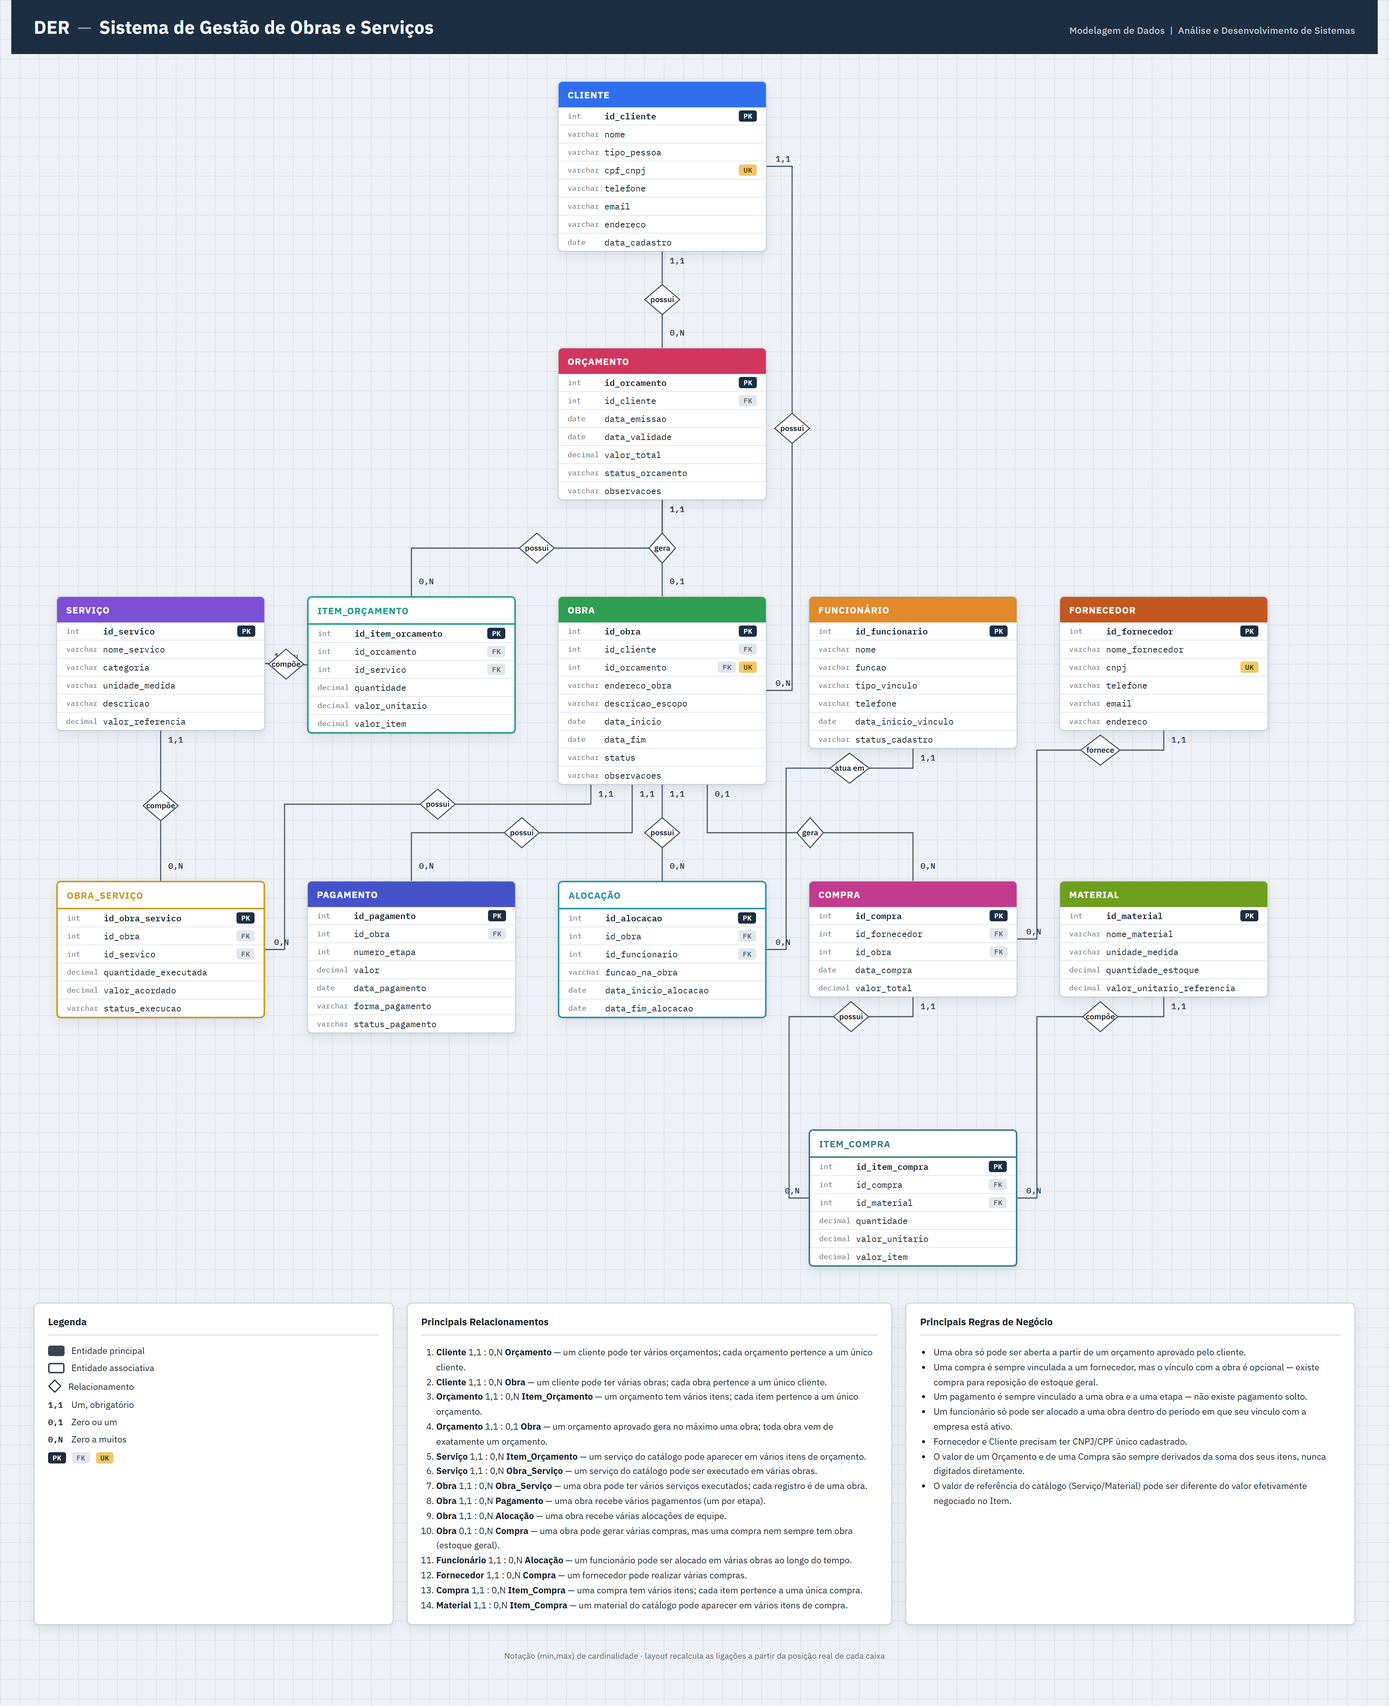
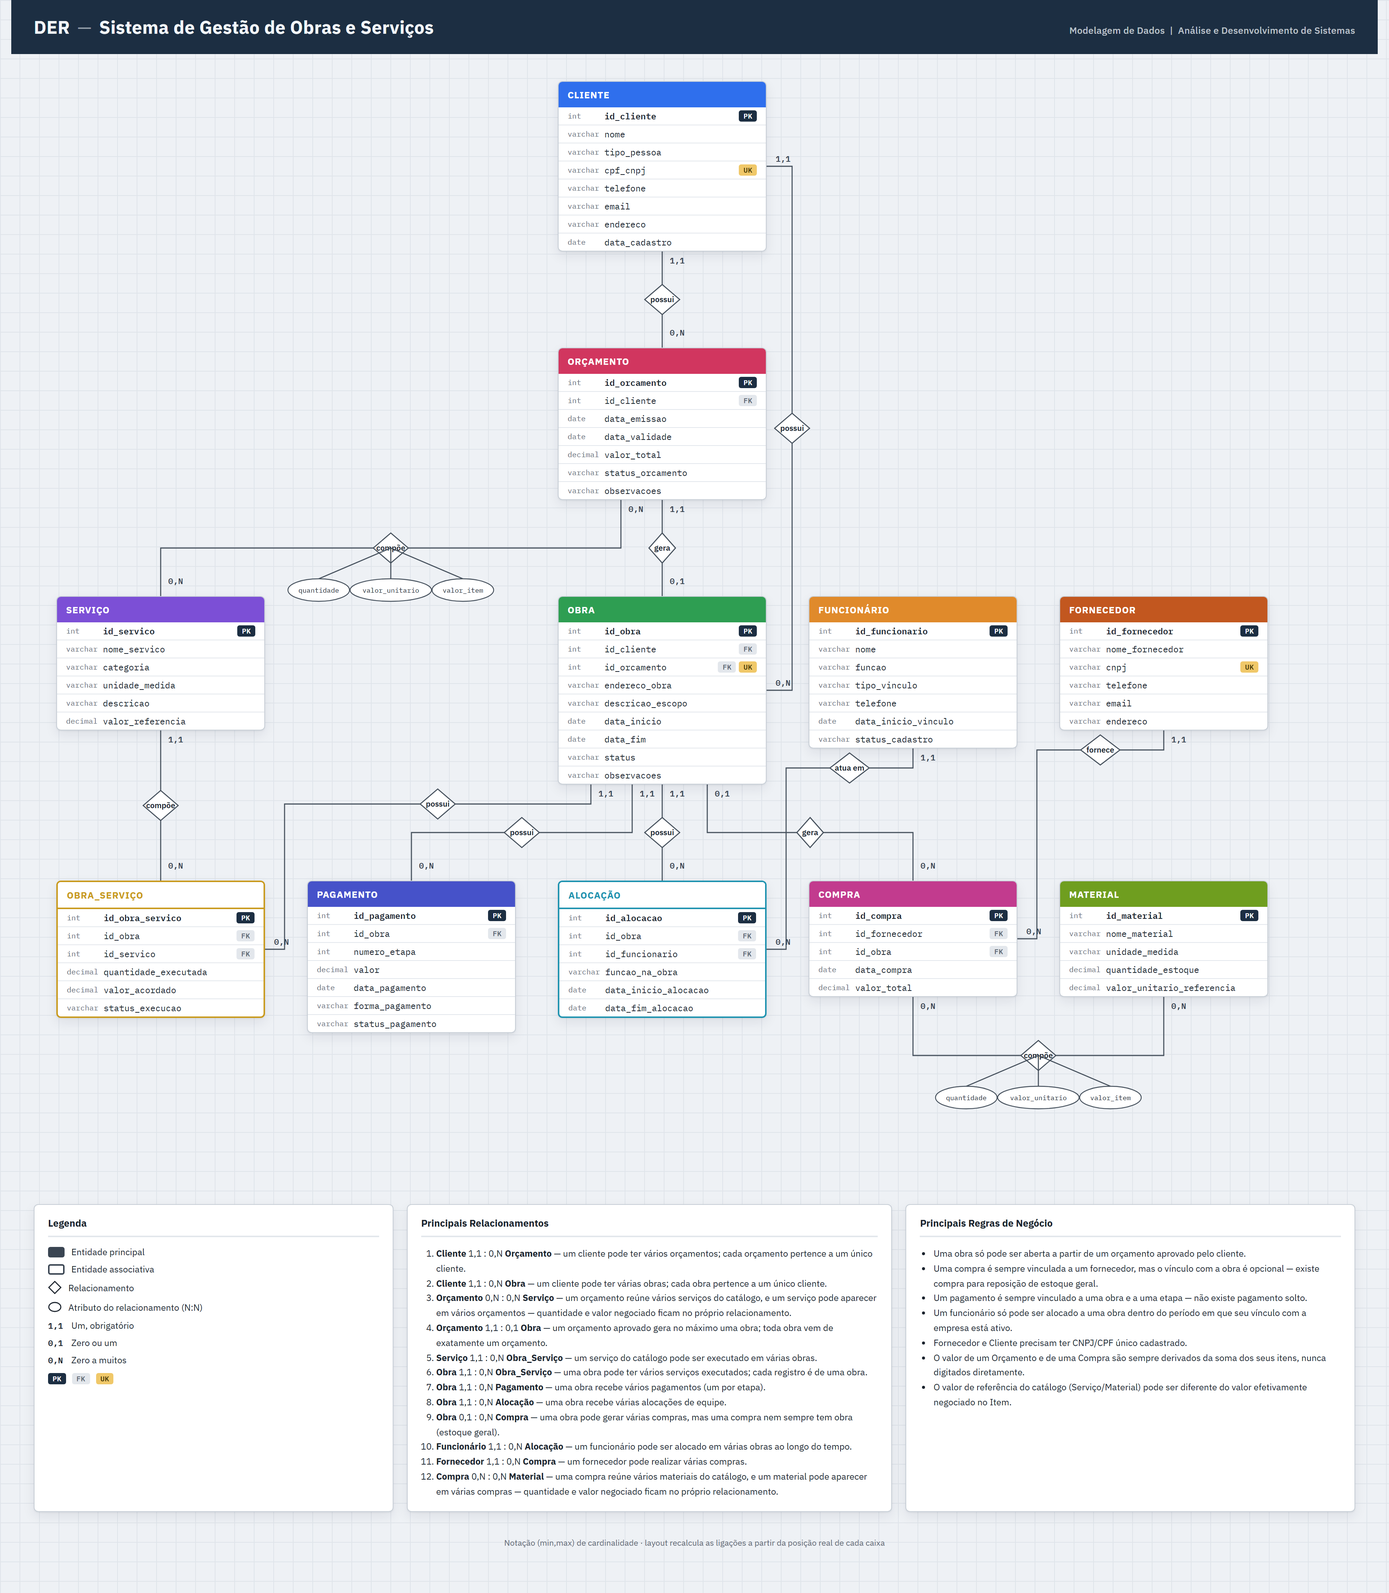
DER (revisao 3): remove Item_Orcamento/Item_Compra, corrige losango duplo
Item_Orcamento e Item_Compra eram entidade associativa presa por DOIS
losangos cada (um "possui" com o orcamento/compra, outro "compoe" com
servico/material) -- leitura invalida de Chen: um relacionamento se liga
a entidades, nao a outro relacionamento.

Corrigido: quantidade/valor_unitario/valor_item viraram atributo do
PROPRIO relacionamento N:N (Orcamento-Servico e Compra-Material), um
losango so por relacionamento, com elipse de atributo presa nele. Removidas
as duas entidades e suas chaves estrangeiras. Dicionario de dados, lista de
relacionamentos e Justificativa Tecnica atualizados. Quadro de uso de IA
ganhou as rodadas 3 (conversao de notacao, que nunca tinha sido registrada)
e 4 (esta correcao).

diff --git a/README.md b/README.md
@@ -531,15 +531,12 @@ Especificações:
 | status_orcamento | Atributo | Pendente, aprovado ou recusado | Obra só pode ser aberta se aprovado |
 | observacoes | Atributo | Condições ou observações da proposta | Opcional |
 
-**Entidade associativa: Item_Orçamento**
+**Relacionamento N:N com atributos: Orçamento _compõe_ Serviço**
 
-*Resolve o relacionamento N:N entre Orçamento e Serviço, permitindo detalhar quantidade e valor por serviço orçado.*
+*Não existe como tabela/entidade própria — quantidade e valor por serviço orçado são atributos do PRÓPRIO relacionamento entre Orçamento e Serviço (notação de Chen), não uma entidade associativa separada. Na implementação física isso ainda vira uma tabela de junção (orcamento_servico), mas conceitualmente no DER é um relacionamento, não uma entidade — diferença que a primeira versão deste diagrama errava.*
 
-| Atributo | Tipo | Descrição | Regra de negócio associada |
+| Atributo do relacionamento | Tipo | Descrição | Regra de negócio associada |
 |----------|------|-----------|------------------------------|
-| id_item_orcamento | PK | Identificador único do item | Obrigatório |
-| id_orcamento | FK | Orçamento ao qual o item pertence | Obrigatório |
-| id_servico | FK | Serviço orçado | Obrigatório |
 | quantidade | Atributo | Quantidade do serviço orçada | Obrigatório, maior que zero |
 | valor_unitario | Atributo | Valor unitário aplicado no orçamento | Obrigatório |
 | valor_item | Atributo | Valor total do item (quantidade × valor_unitario) | Calculado; compõe o valor_total do orçamento |
@@ -613,15 +610,12 @@ Especificações:
 | data_compra | Atributo | Data em que a compra foi realizada | Obrigatório |
 | valor_total | Atributo | Valor total da compra | Calculado a partir dos itens da compra |
 
-**Entidade associativa: Item_Compra**
+**Relacionamento N:N com atributos: Compra _compõe_ Material**
 
-*Resolve o relacionamento N:N entre Compra e Material, permitindo que uma mesma compra traga vários materiais diferentes.*
+*Mesmo caso de Orçamento-Serviço acima: quantidade e valor pago por material comprado são atributos do relacionamento entre Compra e Material, não uma entidade associativa própria.*
 
-| Atributo | Tipo | Descrição | Regra de negócio associada |
+| Atributo do relacionamento | Tipo | Descrição | Regra de negócio associada |
 |----------|------|-----------|------------------------------|
-| id_item_compra | PK | Identificador único do item | Obrigatório |
-| id_compra | FK | Compra à qual o item pertence | Obrigatório |
-| id_material | FK | Material adquirido | Obrigatório |
 | quantidade | Atributo | Quantidade comprada daquele material | Obrigatório, maior que zero |
 | valor_unitario | Atributo | Valor unitário pago naquela compra | Obrigatório |
 | valor_item | Atributo | Valor total do item (quantidade × valor_unitario) | Calculado; compõe o valor_total da compra |
@@ -632,31 +626,33 @@ Especificações:
 
 ### Modelagem Conceitual (Entidades, Atributos, Relacionamentos)
 
-**Entidades reconhecidas:** Cliente, Orçamento, Item de Orçamento, Serviço, Obra, Obra_Serviço, Funcionário, Alocação, Fornecedor, Compra, Item de Compra, Material, Pagamento.
+**Entidades reconhecidas:** Cliente, Orçamento, Serviço, Obra, Obra_Serviço, Funcionário, Alocação, Fornecedor, Compra, Material, Pagamento.
+
+*Item de Orçamento e Item de Compra saíram da lista de entidades (revisão 3): quantidade e valor por serviço/material negociado são atributos do relacionamento N:N Orçamento-Serviço e Compra-Material, não entidades associativas próprias — ver "Justificativa Técnica" abaixo.*
 
 - **Cliente** é quem solicita orçamento e, eventualmente, tem uma obra executada — existe isolado porque pode ter mais de um orçamento/obra ao longo do tempo (histórico).
-- **Orçamento** e **Item de Orçamento** são separados porque um orçamento tem vários serviços orçados, cada um com sua própria quantidade e valor negociado — não caberia num único registro.
+- **Orçamento** relaciona-se N:N com **Serviço**: um orçamento tem vários serviços orçados, cada um com sua própria quantidade e valor negociado — atributos que ficam no próprio relacionamento, não numa entidade separada.
 - **Serviço** é um catálogo reutilizável: o mesmo serviço (ex.: "pintura interna") aparece em vários orçamentos diferentes, com valor de referência único, mas negociado item a item.
 - **Obra** nasce de um orçamento aprovado e é o eixo em torno do qual giram equipe, compras e pagamentos daquele projeto específico.
-- **Obra_Serviço** existe porque o que foi orçado (Item de Orçamento) nem sempre é executado exatamente igual — a obra pode ajustar quantidade e status de execução por serviço.
+- **Obra_Serviço** existe porque o que foi orçado nem sempre é executado exatamente igual — a obra pode ajustar quantidade e status de execução por serviço.
 - **Funcionário** e **Alocação** são separados pelo mesmo motivo de Cliente/Obra: um funcionário atua em várias obras ao longo do tempo, cada alocação com sua função e período específicos naquela obra.
-- **Fornecedor**, **Compra**, **Item de Compra** e **Material** seguem a mesma lógica do bloco de orçamento: Material é catálogo reutilizável, Compra é o pedido feito a um Fornecedor para uma Obra, Item de Compra detalha quantidade/valor de cada material naquela compra.
+- **Fornecedor**, **Compra** e **Material** seguem a mesma lógica do bloco de orçamento: Material é catálogo reutilizável, Compra é o pedido feito a um Fornecedor (para uma Obra ou para estoque geral), e quantidade/valor de cada material naquela compra fica no relacionamento Compra-Material.
 - **Pagamento** é separado da Obra porque uma obra é paga em várias etapas, cada uma com sua própria data, valor e status.
 
 **Relacionamentos pertinentes:**
 
 - Um Cliente possui vários Orçamentos e várias Obras; um Orçamento/Obra pertence a um único Cliente.
-- Um Orçamento possui vários Itens de Orçamento; cada Item de Orçamento refere-se a um único Serviço do catálogo.
+- Um Orçamento reúne vários Serviços do catálogo (N:N), com quantidade e valor negociado no próprio relacionamento; um Serviço pode aparecer em vários orçamentos.
 - Um Orçamento aprovado origina, no máximo, uma Obra (nem todo Orçamento vira Obra — só o que for aprovado); toda Obra tem exatamente um Orçamento de origem.
 - Uma Obra executa vários Serviços (via Obra_Serviço); um Serviço pode estar em várias obras.
 - Uma Obra recebe várias Alocações; cada Alocação vincula um único Funcionário a uma única Obra.
 - Uma Obra pode gerar várias Compras, mas uma Compra nem sempre está ligada a uma Obra — compra para reposição de estoque geral não tem obra de destino; toda Compra é feita a um único Fornecedor.
-- Uma Compra possui vários Itens de Compra; cada Item de Compra refere-se a um único Material do catálogo.
+- Uma Compra reúne vários Materiais do catálogo (N:N), com quantidade e valor pago no próprio relacionamento; um Material pode aparecer em várias compras.
 - Uma Obra recebe vários Pagamentos (um por etapa).
 
 **Restrições e políticas organizacionais aplicadas ao modelo:**
 - Uma Obra só existe vinculada a um Orçamento aprovado — não há Obra sem Orçamento de origem.
-- O valor total de um Orçamento e de uma Compra são sempre derivados da soma dos seus itens, nunca digitados diretamente — o que reforça Item_Orçamento e Item_Compra como o nível de detalhe real do dado.
+- O valor total de um Orçamento e de uma Compra são sempre derivados da soma dos itens do relacionamento (quantidade × valor_unitario de cada Serviço/Material), nunca digitados diretamente.
 
 ---
 
@@ -664,17 +660,19 @@ Especificações:
 
 ![DER - JG Construções](DER.png)
 
-13 entidades, com as cardinalidades de cada relacionamento: Cliente 1:N Orçamento; Cliente 1:N Obra; Orçamento 1:N Item_Orçamento; Orçamento 1:0,1 Obra (todo Orçamento aprovado gera no máximo uma Obra; toda Obra vem de exatamente um Orçamento); Serviço 1:N Item_Orçamento e 1:N Obra_Serviço; Obra 1:N Obra_Serviço, 1:N Alocação, 1:N Pagamento; Obra 0,1:N Compra (compra pode não ter obra — estoque geral); Funcionário 1:N Alocação; Fornecedor 1:N Compra; Compra 1:N Item_Compra; Material 1:N Item_Compra.
+11 entidades, com as cardinalidades de cada relacionamento: Cliente 1:N Orçamento; Cliente 1:N Obra; Orçamento N:N Serviço (com quantidade/valor no relacionamento); Orçamento 1:0,1 Obra (todo Orçamento aprovado gera no máximo uma Obra; toda Obra vem de exatamente um Orçamento); Serviço 1:N Obra_Serviço; Obra 1:N Obra_Serviço, 1:N Alocação, 1:N Pagamento; Obra 0,1:N Compra (compra pode não ter obra — estoque geral); Funcionário 1:N Alocação; Fornecedor 1:N Compra; Compra N:N Material (com quantidade/valor no relacionamento).
 
-*(Revisão 2: durante a conferência do modelo, percebemos duas inconsistências na primeira versão do diagrama — a relação Orçamento→Obra estava desenhada como 1:N, quando pela própria regra de negócio uma Obra só pode vir de UM Orçamento aprovado, e havia uma ligação direta entre Compra e Material que duplicava o que o Item_Compra já resolve. As duas foram corrigidas nesta versão do `DER.png`.)*
+*(Revisão 2: durante a conferência do modelo, percebemos duas inconsistências na primeira versão do diagrama — a relação Orçamento→Obra estava desenhada como 1:N, quando pela própria regra de negócio uma Obra só pode vir de UM Orçamento aprovado, e havia uma ligação direta entre Compra e Material que duplicava o que o Item_Compra já resolvia. As duas foram corrigidas.)*
+
+*(Revisão 3: Item_Orçamento e Item_Compra saíram como entidades associativas próprias. Notação de Chen correta pra um N:N com atributo (quantidade, valor_unitario, valor_item) é o atributo pendurado no PRÓPRIO losango do relacionamento, não uma entidade nova com dois losangos grudados nela — o erro anterior tinha, na prática, dois relacionamentos saindo da mesma caixa, o que não é uma leitura válida do diagrama. A tabela física (junção com essas colunas) continua existindo do mesmo jeito; o que mudou foi só a representação conceitual.)*
 
 ---
 
 ### Justificativa Técnica
 
-A decisão central do modelo foi **separar o que foi orçado (Item_Orçamento) do que foi de fato executado (Obra_Serviço)**, em vez de assumir que a obra sempre executa exatamente o que constava no orçamento. Na prática de uma obra, quantidade e escopo de um serviço podem mudar no meio do caminho (mais metros quadrados do que o previsto, um serviço cancelado). Um único registro que misturasse "orçado" e "executado" perderia essa diferença — e é justamente essa diferença que a empresa precisa para saber se está ganhando ou perdendo dinheiro numa obra em relação ao que foi vendido ao cliente.
+A decisão central do modelo foi **separar o que foi orçado (relacionamento Orçamento-Serviço) do que foi de fato executado (Obra_Serviço)**, em vez de assumir que a obra sempre executa exatamente o que constava no orçamento. Na prática de uma obra, quantidade e escopo de um serviço podem mudar no meio do caminho (mais metros quadrados do que o previsto, um serviço cancelado). Um único registro que misturasse "orçado" e "executado" perderia essa diferença — e é justamente essa diferença que a empresa precisa para saber se está ganhando ou perdendo dinheiro numa obra em relação ao que foi vendido ao cliente.
 
-A segunda decisão foi **tratar Serviço e Material como catálogos**, separados de Item_Orçamento/Item_Compra. Isso evita redigitar "Pintura interna — R$ 35/m²" a cada novo orçamento, mas também permite que o valor efetivamente cobrado (no Item_Orçamento) seja diferente do valor de referência do catálogo — refletindo a regra de negócio real de que todo orçamento é, até certo ponto, negociado com o cliente.
+A segunda decisão foi **tratar Serviço e Material como catálogos**, com valor de referência próprio, independente do que é negociado em cada orçamento/compra. Isso evita redigitar "Pintura interna — R$ 35/m²" a cada novo orçamento, mas também permite que o valor efetivamente cobrado (atributo do relacionamento Orçamento-Serviço) seja diferente do valor de referência do catálogo — refletindo a regra de negócio real de que todo orçamento é, até certo ponto, negociado com o cliente. Quantidade e valor por serviço/material negociado não viraram uma entidade associativa própria (Item_Orçamento/Item_Compra, como numa versão anterior deste DER) porque são atributos do PRÓPRIO relacionamento N:N — colocá-los numa entidade à parte, ligada por dois losangos, não é uma leitura válida de um diagrama de Chen (um relacionamento não se liga a outro relacionamento; ele se liga a entidades).
 
 Por fim, **Pagamento foi modelado por etapa, vinculado à Obra**, e não como um valor único fechado no momento da venda — porque obra de reforma tipicamente não é paga de uma vez só; separar por etapa é o que permite ao sistema responder "quanto já foi pago dessa obra" e "quanto ainda falta receber" a qualquer momento, sem depender de conferência manual.
 
@@ -706,6 +704,32 @@ Por fim, **Pagamento foi modelado por etapa, vinculado à Obra**, e não como um
 | **Trechos rejeitados ou corrigidos** | A sugestão inicial de remover o campo id_cliente de Obra foi revista depois de cruzar com o dicionário de dados já escrito pelo grupo, que tratava esse campo como obrigatório de propósito — o grupo optou por manter e simplesmente não reintroduzir esse "erro" como correção. |
 | **Justificativa da escolha final** | Optamos por manter as correções de cardinalidade (Orçamento-Obra e Compra-Material) porque essas sim contrariavam a regra de negócio escrita pelo próprio grupo, sem ambiguidade. A conclusão e as referências foram revisadas por nós antes de manter, ajustando trechos que pareciam genéricos demais para refletir o que realmente aconteceu no nosso processo. |
 | **Reflexão crítica** | Ficou claro que a IA lendo só a imagem do diagrama teria "corrigido" um campo que na verdade era intencional — só cruzando com o texto que o próprio grupo escreveu foi possível perceber isso. Reforça que revisão de IA sobre modelagem de dados precisa sempre ser cruzada com as regras de negócio documentadas, não só com o desenho. |
+
+**Terceira rodada — conversão de notação (Crow's Foot para Chen/MER brasileiro)**
+
+| Item | O que registrar |
+|------|------------------|
+| **Ferramenta e etapa** | Claude (Anthropic), usado pra redesenhar o DER trocando a notação de "pé de galinha" (Crow's Foot) pela notação de Chen usada no material da disciplina — entidades em caixa, relacionamento em losango com verbo, cardinalidade numérica (min,max) junto de cada ponta. |
+| **Motivação** | O grupo pediu a troca de notação pra bater com o que foi ensinado em aula. |
+| **Prompt(s) utilizados** | Pedimos pra converter o diagrama existente pra notação de Chen/MER brasileiro, mantendo as entidades, atributos e cardinalidades já revisadas na segunda rodada. |
+| **Resposta recebida** | Diagrama redesenhado do zero (SVG gerado por script) com caixas coloridas por entidade, losango de relacionamento com verbo e cardinalidade (min,max) nas duas pontas. |
+| **Fontes consultadas e verificadas** | O próprio DER já revisado na segunda rodada — a troca foi só de notação visual, sem mudar entidade/atributo/cardinalidade nenhuma. |
+| **Trechos rejeitados ou corrigidos** | Nenhum nesta rodada. |
+| **Justificativa da escolha final** | Notação exigida pela disciplina. |
+| **Reflexão crítica** | Essa rodada não mexeu no CONTEÚDO do modelo, só na representação — mas foi justamente nela que entrou, sem o grupo perceber na hora, o erro que a quarta rodada corrigiu abaixo (duas entidades associativas ligadas por dois losangos cada). Mudar de notação é um bom momento pra reintroduzir erro de modelagem sem querer, porque a atenção vai toda pro desenho, não pra estrutura. |
+
+**Quarta rodada — remoção de Item_Orçamento e Item_Compra como entidades**
+
+| Item | O que registrar |
+|------|------------------|
+| **Ferramenta e etapa** | Claude (Anthropic), usado pra corrigir um erro estrutural apontado pelo grupo: Item_Orçamento e Item_Compra apareciam como entidade associativa própria, cada uma ligada por DOIS losangos (um pra cada lado do N:N que ela resolvia) — leitura inválida de um diagrama de Chen, onde um relacionamento se liga a entidades, não a outro relacionamento. |
+| **Motivação** | O grupo identificou o problema sozinho ("não pode ter dois losangos ligados neles mesmo") e pediu a correção, incluindo remover as chaves estrangeiras das entidades removidas. |
+| **Prompt(s) utilizados** | Pedimos pra remover Item de Compra, a chave estrangeira associada, Item de Orçamento, e os losangos duplicados, e "fazer direito". |
+| **Resposta recebida** | Item_Orçamento e Item_Compra saíram como entidade; quantidade/valor_unitario/valor_item viraram atributos pendurados no PRÓPRIO relacionamento N:N (Orçamento-Serviço e Compra-Material), um losango só por relacionamento, notação de Chen correta pra atributo-de-relacionamento (elipse presa ao losango). Dicionário de dados, lista de relacionamentos e texto de justificativa técnica atualizados pra não citar mais as duas entidades como tabela própria. |
+| **Fontes consultadas e verificadas** | O próprio DER e o texto de "Justificativa Técnica" já escritos neste README, pra manter coerentes a razão de existir de Serviço/Material como catálogo (que continua válida) sem depender mais da entidade associativa removida. |
+| **Trechos rejeitados ou corrigidos** | Nenhum — a correção pedida pelo grupo estava tecnicamente certa (é, de fato, um erro clássico de notação de Chen confundir "entidade associativa" com "atributo de relacionamento"). |
+| **Justificativa da escolha final** | Aceita integralmente: um relacionamento N:N com atributo simples (sem vida própria, sem ser referenciado por mais nenhuma outra entidade) é caso de atributo-no-losango, não de nova entidade — a própria bibliografia da disciplina (Heuser, Elmasri/Navathe) trata esse padrão dessa forma. |
+| **Reflexão crítica** | Esse foi o segundo erro de modelagem encontrado pelo próprio grupo, não pela IA — reforça que a revisão humana continua sendo a que efetivamente pega os erros conceituais; a IA aqui executou a correção depois de identificado o problema, não identificou sozinha. |
 
 ## Conclusão
 
